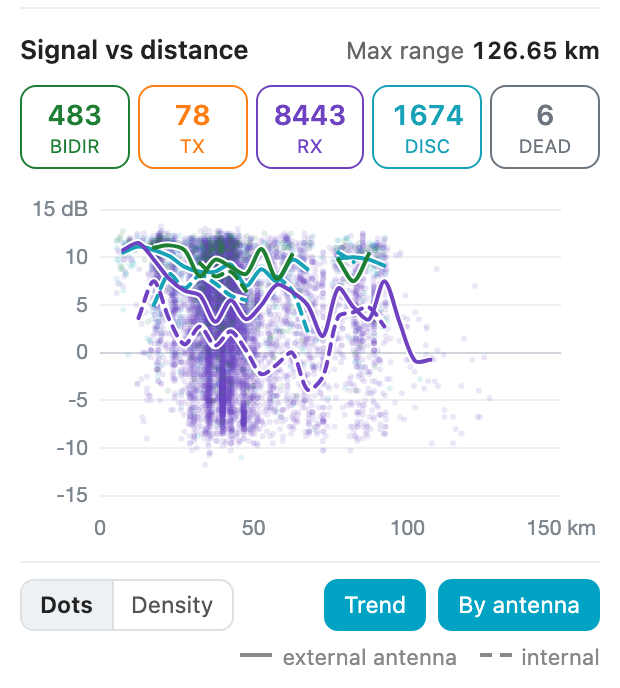
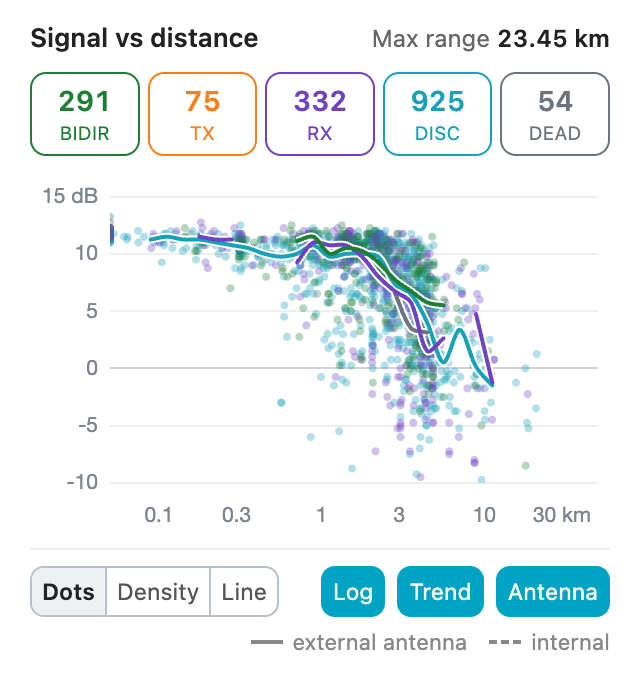
docs(visuals): Signal vs distance chart gets Line, Log and Antenna (v1.5.207)
The chart opens on a log distance scale (Log, on by default; click for an even
scale from 0), pings nearer than the scale's left edge sit on it and keep their
real distance on hover, the Line view shows the trend lines alone, and By
antenna is now Antenna. New screenshot from v1.5.207.

diff --git a/docs/visuals.md b/docs/visuals.md
@@ -175,16 +175,17 @@ Click a repeater chip to see its details. The rest of the coverage dims so its o
 
 Every ping that reached this repeater, placed by how far away it was (left to right) and how strong the signal was (bottom to top). It shows how the repeater's signal holds up with distance.
 
-![The Signal vs distance chart with Trend and By antenna turned on: faint dots for each ping, a solid line for external antennas and a dashed line for internal ones.](assets/signal-vs-distance.png)
+![The Signal vs distance chart on its log distance scale with Trend and Antenna turned on: faint dots for each ping, the near pings spread out from 0.1 km to 30 km, a solid line for external antennas and a dashed line for internal ones.](assets/signal-vs-distance.png)
 
   - **Max range**: the farthest ping that reached the repeater, shown beside the title.
   - **Ping types**: the row of counts (BIDIR, TX, RX, DISC, DEAD) is also a row of switches. They all start on. Click one to take that type off the chart, and click it again to bring it back. For example, turn RX off to see only the pings that got a reply. A type with a count of 0 can't be clicked. TX pings often have no signal reading, so they can be counted without appearing on the chart.
-  - **Dots / Density**: **Dots** draws one small dot per ping. **Density** counts the pings into squares instead, coloured by the most common type and stronger where there are more. Hover or tap a square to see its distance and signal range, how many pings are in it and which types. Density is easier to read on a very busy repeater.
+  - **Dots / Density / Line**: **Dots** draws one small dot per ping. **Density** counts the pings into squares instead, coloured by the most common type and stronger where there are more. Hover or tap a square to see its distance and signal range, how many pings are in it and which types. Density is easier to read on a very busy repeater. **Line** shows the trend lines alone, with no dots or squares, so **Trend** stays on while you're in it.
+  - **Log**: the distance scale. It starts on, which spreads out the pings close to the repeater, so a few very long pings no longer squash everything else against the left edge. The distances along the bottom grow by multiples instead of even steps (for example 0.1, 0.3, 1, 3, 10 km). Click **Log** to switch to an even scale starting at 0. Pings closer than the left edge of the log scale are drawn on that edge, and hovering one still shows its real distance.
   - **Trend**: draws one line per ping type showing the typical (median) signal at each distance. A line has a gap wherever fewer than 5 pings were recorded, so it never guesses across a stretch nobody drove. Hover a line to see the distance range, the median and the ping count.
-  - **By antenna**: splits each trend line in two, solid for pings sent with an external antenna and dashed for an internal one. It needs **Trend** on.
+  - **Antenna**: splits each trend line in two, solid for pings sent with an external antenna and dashed for an internal one. It needs **Trend** on.
 
 !!! note
-    Switching a ping type off only changes the chart, and every repeater opens with all of them on. Dots or Density, Trend and By antenna are remembered in your browser.
+    Switching a ping type off only changes the chart, and every repeater opens with all of them on. Dots, Density or Line, Log, Trend and Antenna are remembered in your browser.
 
 ## Private Repeaters
 
